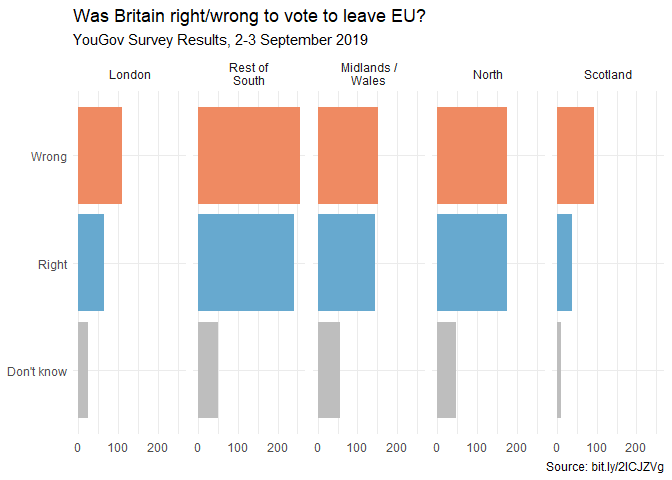
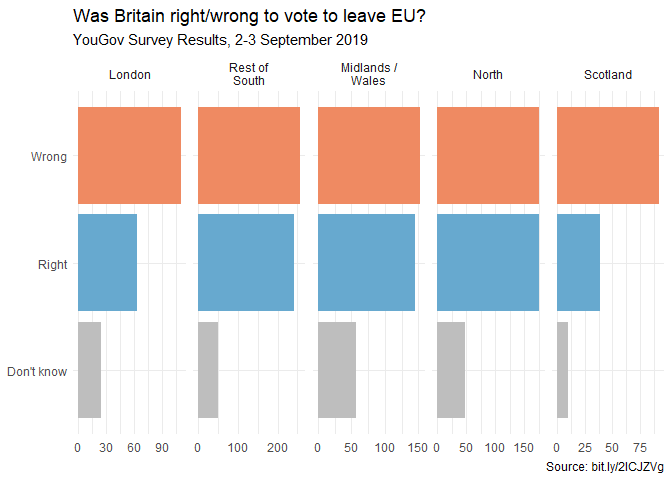
Exersice 2

diff --git a/brexit.md b/brexit.md
@@ -1,6 +1,6 @@
 Brexit
 ================
-Naomi Ekas
+Thomas Sease
 
 In September 2019, YouGov survey asked 1,639 GB adults the following
 question:
@@ -64,7 +64,7 @@ ggplot(brexit, aes(y = opinion, fill = opinion)) +
   geom_bar() +
   facet_wrap(~region,
     nrow = 1, labeller = label_wrap_gen(width = 12),
-    # ___
+    scales = "free_x"
   ) +
   guides(fill = FALSE) +
   labs(
@@ -96,8 +96,29 @@ visualisation telling different than the story the original plot tells?
 which means you’ll need to load it on top of the document as well.
 
 ``` r
-# code goes here
+brexit %>% 
+  count(region, opinion) %>% 
+  group_by(region) %>% 
+  mutate(opin.porportion = n/ sum(n)) %>% 
+  ggplot(aes(y = opinion, x = opin.porportion, fill = opinion)) +
+  geom_col() +
+  facet_wrap(~region, 
+             nrow = 1, labeller = label_wrap_gen(width = 12)) +
+    scale_fill_manual(values = c(
+    "Wrong" = "#ef8a62",
+    "Right" = "#67a9cf",
+    "Don't know" = "gray"
+  )) +
+   labs(
+    title = "Was Britain right/wrong to vote to leave EU?",
+    subtitle = "YouGov Survey Results, 2-3 September 2019",
+    caption = "Source: bit.ly/2lCJZVg",
+    x = "Proportion", y = "Answer"
+  ) +
+  theme_minimal()
 ```
+
+![](brexit_files/figure-gfm/unnamed-chunk-4-1.png)<!-- -->
 
 ### Exercise 3 - Comparing proportions across bars
 
